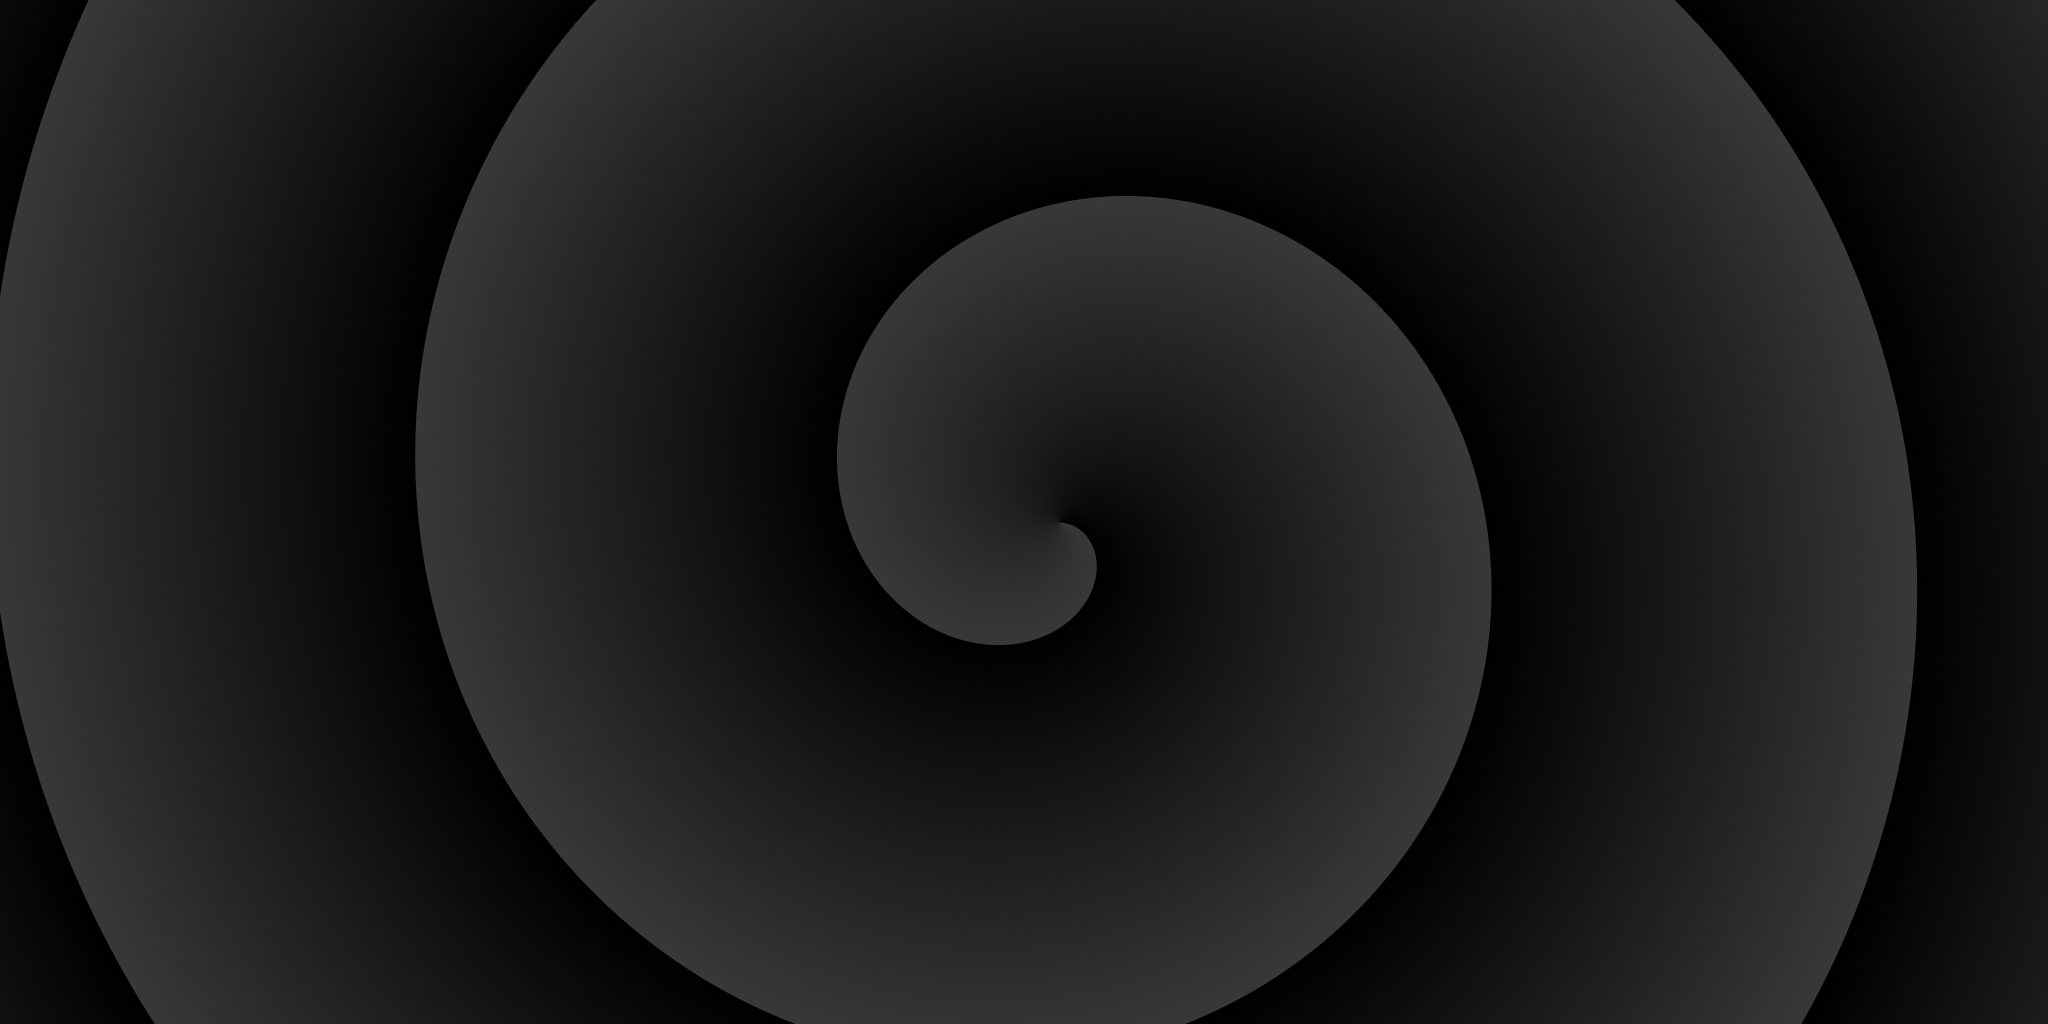
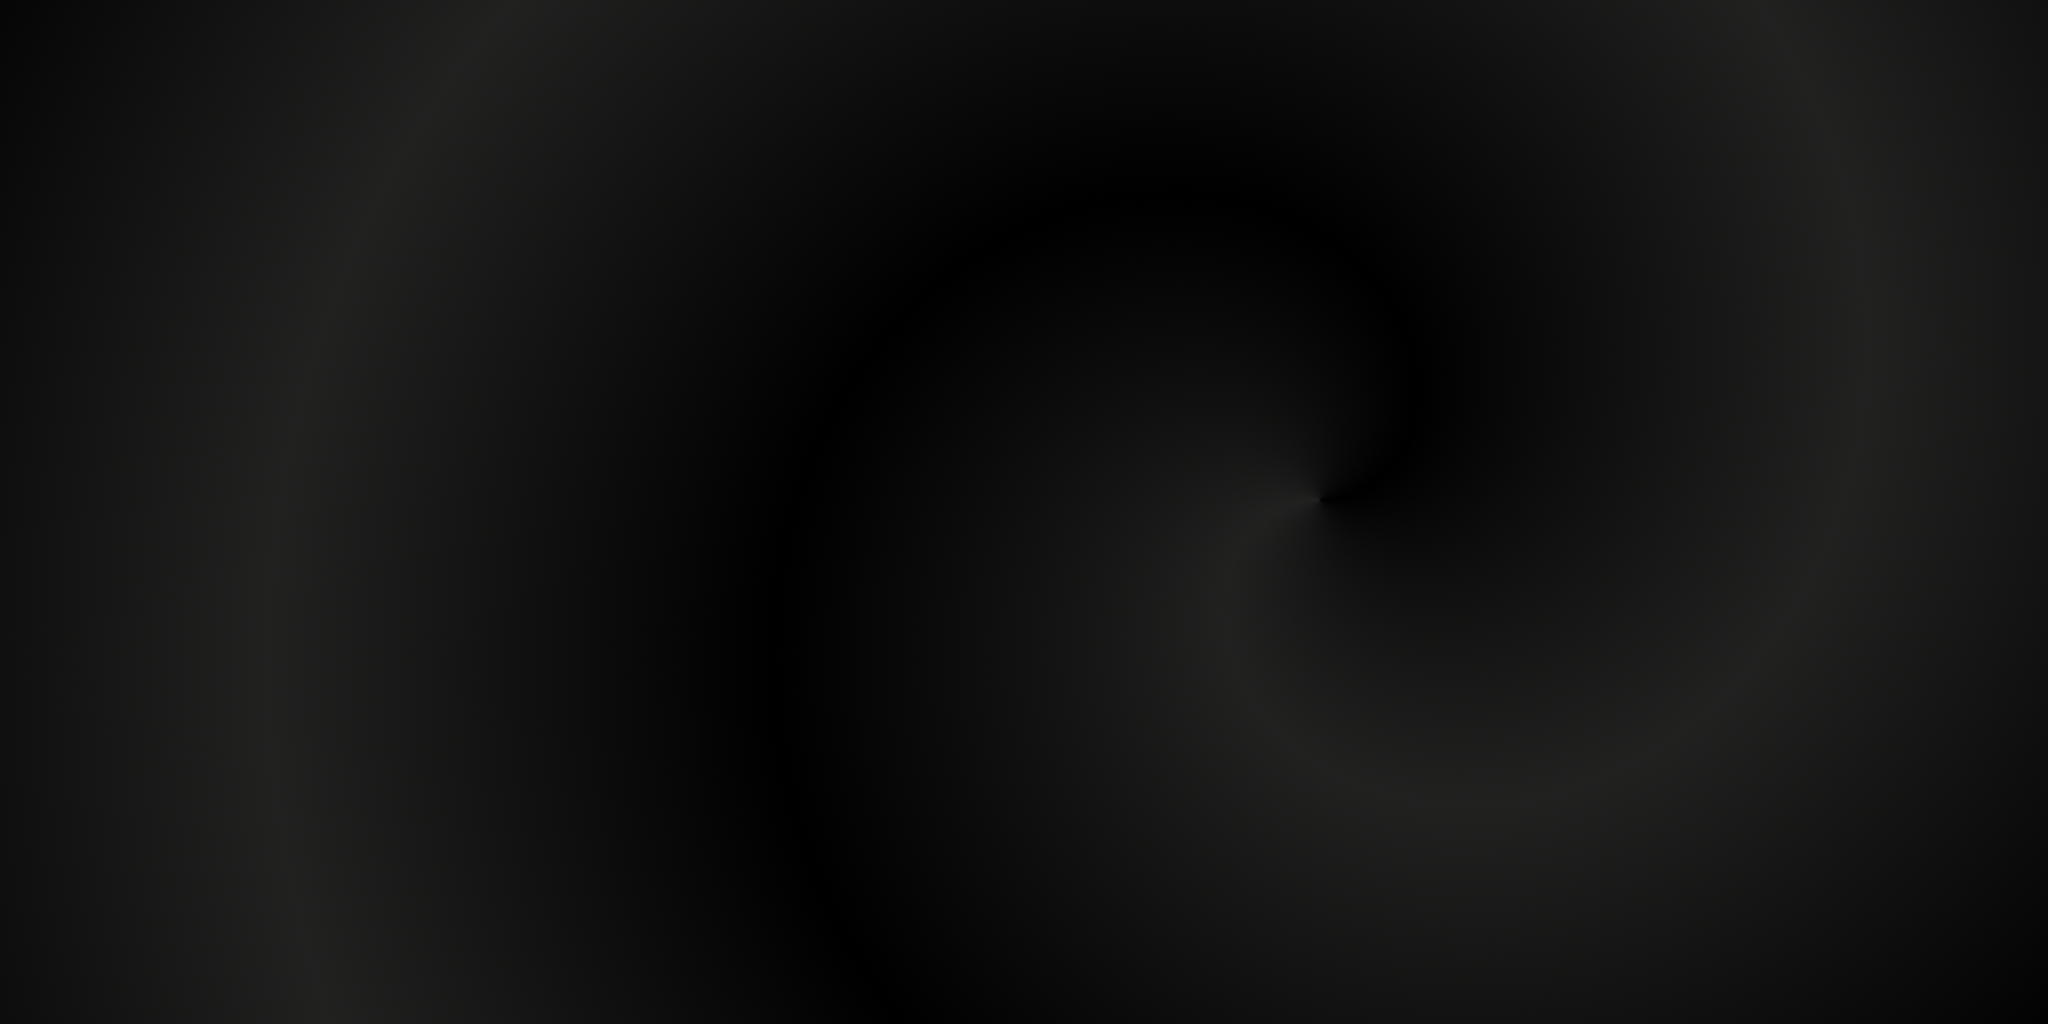
code cleanup + on level up, change bg

diff --git a/core/src/jadeddelta/genjwld/GemInputProcessor.java b/core/src/jadeddelta/genjwld/GemInputProcessor.java
@@ -1,10 +1,8 @@
 package jadeddelta.genjwld;
 
-import com.badlogic.gdx.Gdx;
 import com.badlogic.gdx.Input;
 import com.badlogic.gdx.InputProcessor;
 import com.badlogic.gdx.math.Vector3;
-import jadeddelta.genjwld.gameplay_elements.Board;
 import jadeddelta.genjwld.screens.GameScreen;
 
 public class GemInputProcessor implements InputProcessor {
@@ -35,14 +33,11 @@ public class GemInputProcessor implements InputProcessor {
     public boolean touchDown(int screenX, int screenY, int pointer, int button) {
         if (button != Input.Buttons.LEFT || pointer > 0)
             return false;
-        int adjustY = Gdx.graphics.getHeight() - screenY;
         tp = screen.unproject(tp.set(screenX, screenY, 0));
 
+        // TODO: doesn't exactly work on resize, but we'll figure something out
+        screen.board.selectGem((int)tp.x, (int)tp.y);
 
-
-        if (button == Input.Buttons.LEFT) {
-            screen.board.selectGem(screenX, adjustY);
-        }
         return false;
     }
 

diff --git a/core/src/jadeddelta/genjwld/gameplay_elements/ScoreIndicator.java b/core/src/jadeddelta/genjwld/gameplay_elements/ScoreIndicator.java
@@ -13,8 +13,6 @@ public class ScoreIndicator {
     private int comboProgress;
     private int threshold;
 
-    private Assets manager;
-
     private GridPoint2 min;
     private int width, height;
 
@@ -130,10 +128,6 @@ public class ScoreIndicator {
     }
 
     public int getScoreHeight() {
-        System.out.println(height);
-        System.out.println(score);
-        System.out.println(scoreCap);
-        System.out.println((int) (height * ((double) score / scoreCap)) + "a");
         return (int) (height * ((double) score / scoreCap));
     }
 }

diff --git a/core/src/jadeddelta/genjwld/data/Assets.java b/core/src/jadeddelta/genjwld/data/Assets.java
@@ -41,6 +41,10 @@ public class Assets {
         manager.load("elements/score-indicator/scoreFill.png", Texture.class);
 
         manager.load("bgs/bg1.png", Texture.class);
+        manager.load("bgs/bg2.png", Texture.class);
+        manager.load("bgs/bg3.png", Texture.class);
+        manager.load("bgs/bg4.png", Texture.class);
+        manager.load("bgs/bg5.png", Texture.class);
 
         FreetypeFontLoader.FreeTypeFontLoaderParameter mainTitleFont =
                 new FreetypeFontLoader.FreeTypeFontLoaderParameter();

diff --git a/core/src/jadeddelta/genjwld/gameplay_elements/Board.java b/core/src/jadeddelta/genjwld/gameplay_elements/Board.java
@@ -14,9 +14,6 @@ public class Board {
     private BoardProperties props;
 
     private Array<GridPoint2> smokedGems = new Array<>();
-    private long smokeTime = 0;
-
-    private long lastMatchTime;
 
     public Board(Array<Array<Gem>> gems, BoardProperties props) {
         this.gems = gems;
@@ -25,8 +22,6 @@ public class Board {
 
         selectSlot = new GridPoint2(-1, -1);
         swapSlot = new GridPoint2(-1, -1);
-
-        this.lastMatchTime = 0;
     }
 
     /**

diff --git a/core/src/jadeddelta/genjwld/screens/GameScreen.java b/core/src/jadeddelta/genjwld/screens/GameScreen.java
@@ -59,7 +59,8 @@ public abstract class GameScreen implements Screen {
     }
 
     private void renderBg() {
-        background = game.manager.getBg(1);
+        int bgLevel = (scoreIndicator.getLevel() % 5) + 1;
+        background = game.manager.getBg(bgLevel);
         game.batch.disableBlending();
         game.batch.draw(background, 0, 0, Gdx.graphics.getWidth(), Gdx.graphics.getHeight());
         game.batch.enableBlending();
